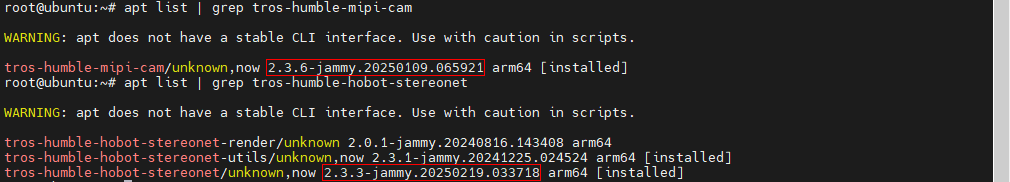
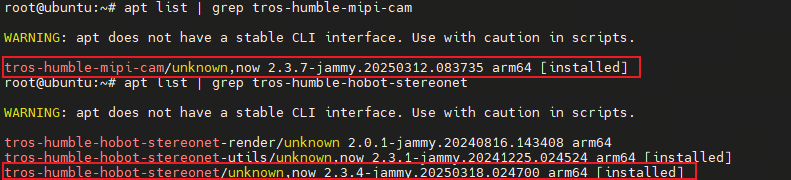
feat(05_Robot_development): update hobot_stereonet(v2.3.4)

diff --git a/docs/05_Robot_development/03_boxs/function/hobot_stereonet.md b/docs/05_Robot_development/03_boxs/function/hobot_stereonet.md
@@ -29,7 +29,7 @@ sidebar_position: 13
 
 ### 功能安装和更新
 
-- 在运行双目深度算法之前，需要确保系统版本在`3.1.1`版本之上，查询系统版本的命令如下：
+- 在运行双目深度算法之前，需要确保系统镜像版本在`3.1.1`版本之上，查询系统版本的命令如下：
 
 ```bash
 cat /etc/version
@@ -39,8 +39,8 @@ cat /etc/version
 
 - 如果系统版本不符合要求，请参考文档`1.2`章节进行镜像烧录
 
-- 此外，还需要确保`tros-humble-mipi-cam`功能包在2.3.6版本之上、`tros-humble-hobot-stereonet`
-  功能包在2.3.3版本之上，查询功能包版本的命令如下：
+- 此外，还需要确保`tros-humble-mipi-cam`功能包在2.3.7版本（及以上）、`tros-humble-hobot-stereonet`
+  功能包在2.3.4版本（及以上），查询功能包版本的命令如下：
 
 ```bash
 apt list | grep tros-humble-mipi-cam
@@ -108,18 +108,9 @@ need_rectify:=False mipi_image_width:=640 mipi_image_height:=352 \
 height_min:=-10.0 height_max:=10.0 pc_max_depth:=5.0
 ```
 
-- 如果用户想保存深度估计结果，可以添加如下参数实现，`save_image_all`打开保存开关，`save_freq`控制保存频率，图像将保存在`stereonet_images`目录：
+- 出现如下日志表示双目算法启动成功，`fx/fy/cx/cy/base_line`是相机内参，如果深度图正常，但估计出来的距离有偏差，可能是相机内参存在问题：
 
-```bash
-# 配置tros.b humble环境
-source /opt/tros/humble/setup.bash
-
-# 启动双目模型launch文件，其包含了算法和双目相机节点的启动
-ros2 launch hobot_stereonet stereonet_model_web_visual_v2.launch.py \
-need_rectify:=False mipi_image_width:=640 mipi_image_height:=352 \
-height_min:=-10.0 height_max:=10.0 pc_max_depth:=5.0 \
-save_image_all:=True save_freq:=4
-```
+![stereonet_run_success](/../static/img/05_Robot_development/03_boxs/function/image/box_adv/stereonet_run_success.png)
 
 - 通过网页端查看深度图，在浏览器输入 http://ip:8000 (图中RDK X5 ip是192.168.1.100)：
 
@@ -130,13 +121,30 @@ save_image_all:=True save_freq:=4
 
 ![stereonet_rviz](/../static/img/05_Robot_development/03_boxs/function/image/box_adv/stereonet_rviz.png)
 
+- 如果用户想保存深度估计结果，可以添加如下参数实现，`save_image_all`打开保存开关，`save_freq`控制保存频率，`save_dir`控制保存的目录（如果目录不存在会自动创建），`save_total`控制保存的总数。程序运行将会保存**相机内参、左右图、视差图、深度图、可视化图**：
+
+```bash
+# 配置tros.b humble环境
+source /opt/tros/humble/setup.bash
+
+# 启动双目模型launch文件，其包含了算法和双目相机节点的启动
+ros2 launch hobot_stereonet stereonet_model_web_visual_v2.launch.py \
+need_rectify:=False mipi_image_width:=640 mipi_image_height:=352 \
+height_min:=-10.0 height_max:=10.0 pc_max_depth:=5.0 \
+save_image_all:=True save_freq:=4 save_dir:=./stereonet_result save_total:=10
+```
+
+![stereonet_save](/../static/img/05_Robot_development/03_boxs/function/image/box_adv/stereonet_save.png)
+
+![stereonet_save_files](/../static/img/05_Robot_development/03_boxs/function/image/box_adv/stereonet_save_files.png)
+
 #### (2) 本地图片离线回灌
 
 - 如果想利用本地图片评估算法效果，可以使用下列命令指定算法运行模式、图像数据地址以及相机内参，同时要保证图像数据经过去畸变、极线对齐。图片的格式如下图所示，第一张左目图像的命名为left000000.png，第二张左目图像的命名为left000001.png，以此类推。对应的第一张右目图像的命名为right000000.png，第二张右目图像的命名为right000001.png，以此类推。算法按序号遍历图像，直至图像全部计算完毕：
 
 ![stereonet_rdk](/../static/img/05_Robot_development/03_boxs/function/image/box_adv/image_format.png)
 
-- 算法离线运行方式如下，通过ssh连接RDK X5，执行以下命令，离线运行的结果将会保存在`stereonet_images`目录中：
+- 算法离线运行方式如下，通过ssh连接RDK X5，执行以下命令：
 
 ```shell
 # 配置tros.b humble环境
@@ -162,7 +170,7 @@ height_min:=-10.0 height_max:=10.0 pc_max_depth:=5.0 save_image_all:=True
 | camera_cy        | -        | 相机内参       |
 | base_line        | -        | 基线距离       |
 
-- 算法运行成功后，同样可以通过网页端和rviz显示实时渲染数据，参考上文
+- 算法运行成功后，同样可以通过网页端和rviz显示实时渲染数据，参考上文，离线运行的结果将会保存在`离线数据目录下的result子目录中`，同样会保存**相机内参、左右图、视差图、深度图、可视化图**
 
 #### (3) 另外可以通过 component 的方式启动节点
 
